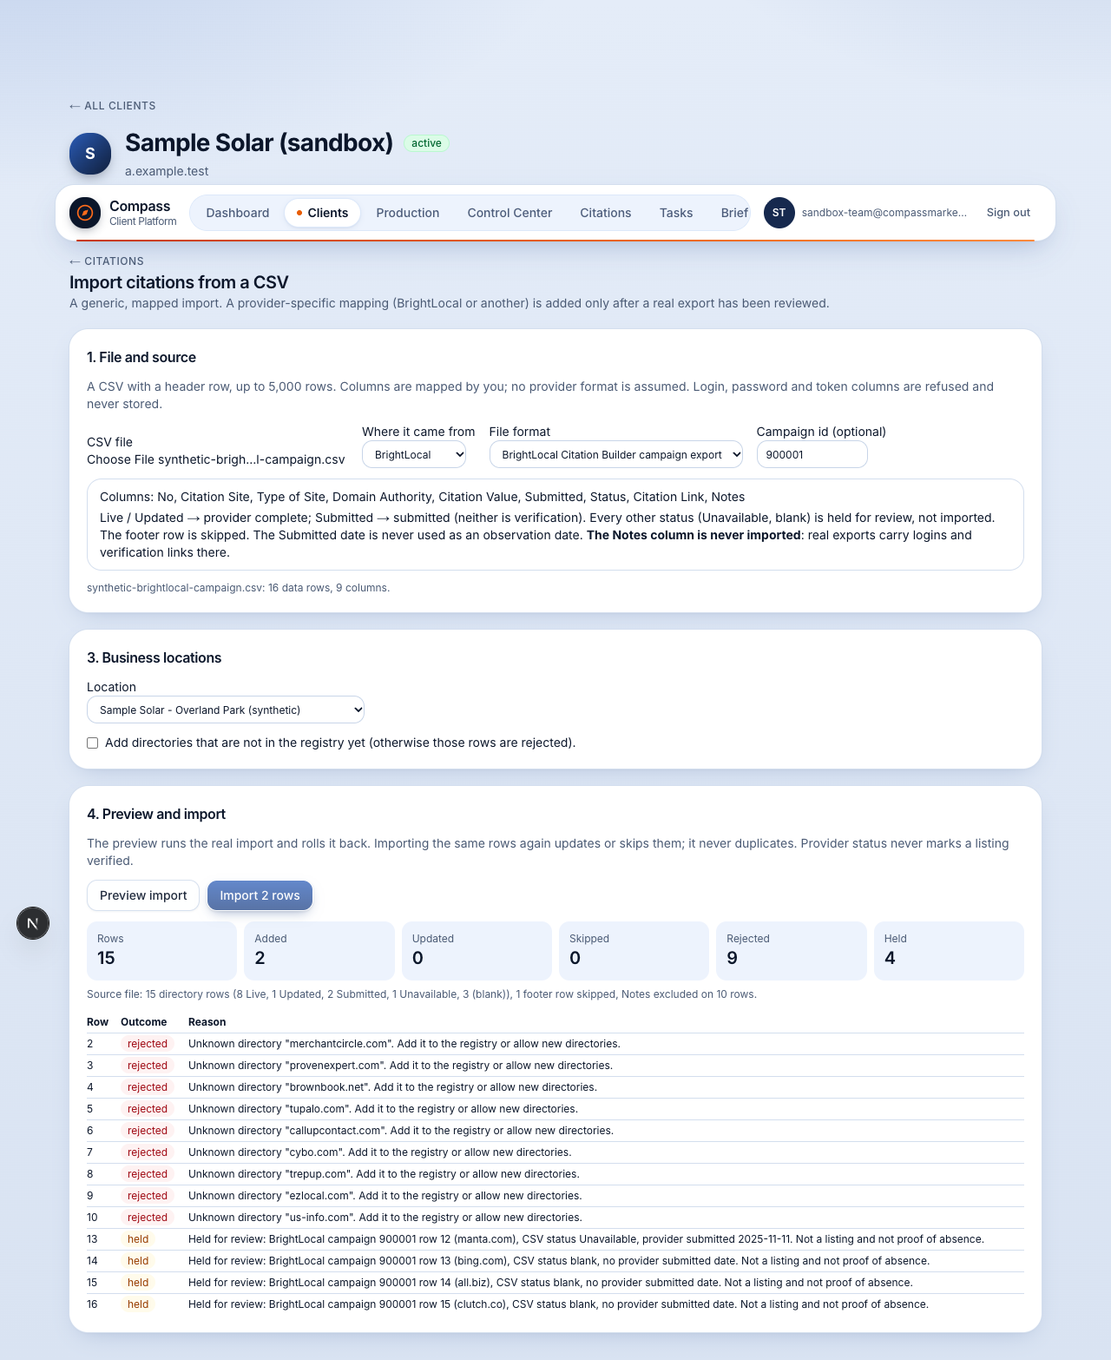
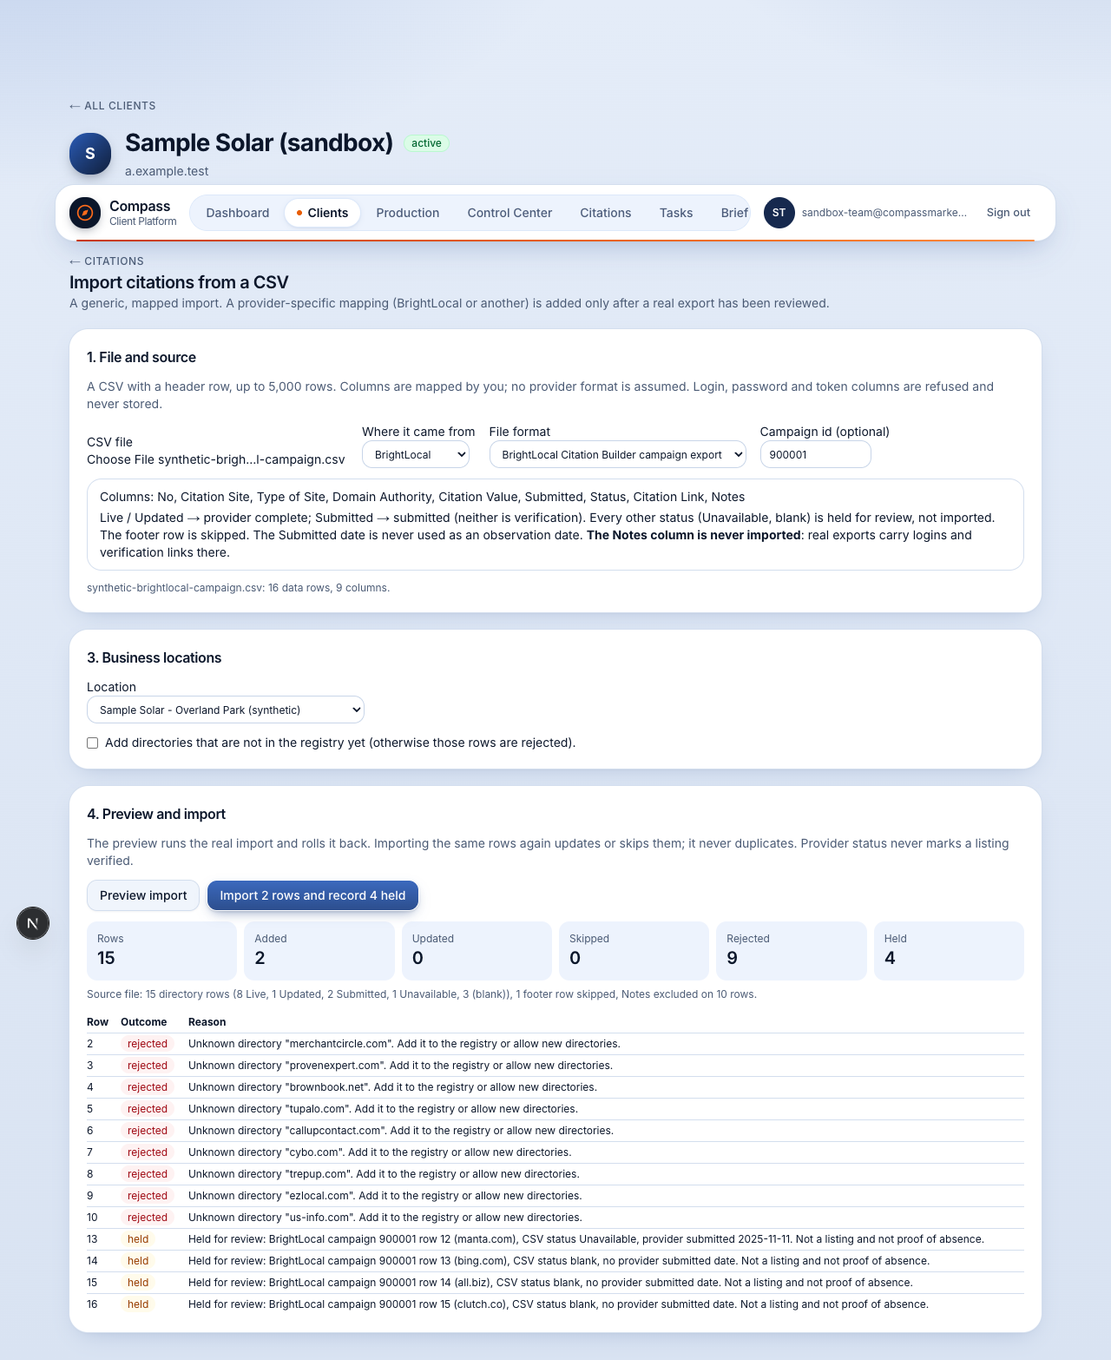
Citations: close metadata credential leaks, save held-only history imports
ChatGPT's review of 0db2eec (Executive OS c0e9965e, handoff 68314621).

P1 - the serialization boundary. A recognized login / private link could
still leave through import metadata:
- BrightLocal held rows: Status, Site and No now go through safeLabel()
  before any held reason or byRawStatus key is built (fixed descriptor, no
  echo, exact counts kept; a non-numeric row number shows as "?").
- The stored location mapping keeps only screened values that point at a
  real location of the client (storedLocationMapping); a flagged key is
  dropped and counted as withheld, even when other rows import.
- File names (storedFileName) and mapped headers are screened; the browser
  masks the file name and never offers a flagged header.

P2 - a valid preview with held rows can be saved: "Save import history (N
held, no listings)" / "Import N rows and record M held"; "Nothing to import"
stays disabled; the import id keeps retries idempotent.

Also: latest-check ties on date and entry time break by insertion order
(citation_checks.seq) instead of a random id - this made one SQL assertion
flaky; verify-task wording for a hidden-address location now says to record
a shown street as a discrepancy and never add it; hide_address = true for
Logic Overland Park recorded as decided (brand-board conflict kept for later
correction).

Tests: brightlocal unit tests for secrets in held Status / Site / No,
stored mapping and file name, mapped headers; SQL held-only commit and
[…]

Changed region(s): [[0.1875, 0.6437, 0.375, 0.6743], [0.6562, 0.3065, 0.7812, 0.3372]]

diff --git a/src/components/citations/citation-import.tsx b/src/components/citations/citation-import.tsx
@@ -71,7 +71,7 @@ export function CitationImport({ clientId, locations }: { clientId: string; loca
   function reset() { setImportId(crypto.randomUUID()); setFile(null); setPreview(null); setDone(null); setMapping({}); setValues({}); }
 
   if (done) return <div className="surface space-y-3 p-5" data-import-done>
-    <h3 className="font-semibold">{done.already_committed ? "This import was already saved" : "Import saved"}</h3>
+    <h3 className="font-semibold">{done.already_committed ? "This import was already saved" : (done.added ?? 0) + (done.updated ?? 0) === 0 ? "Import history saved" : "Import saved"}</h3>
     <Counts r={done} />
     <NewDirectories r={done} /><Source r={done} />
     <Rows r={done} />
@@ -94,8 +94,8 @@ export function CitationImport({ clientId, locations }: { clientId: string; loca
         <p className="mt-1">Live / Updated → provider complete; Submitted → submitted (neither is verification). Every other status (Unavailable, blank) is held for review, not imported. The footer row is skipped. The Submitted date is never used as an observation date. <strong>The Notes column is never imported</strong>: real exports carry logins and verification links there.</p>
       </div>}
       {fileError && <p role="alert" className="text-sm text-red-700">{fileError}</p>}
-      {file && <p className="text-xs text-muted-foreground">{file.name}: {file.rows.length - 1} data rows, {headers.length} columns.</p>}
-      {credentialColumns.length > 0 && <p className="callout text-sm" data-credential-notice>Ignored {credentialColumns.length} login-like column{credentialColumns.length > 1 ? "s" : ""} ({credentialColumns.join(", ")}). Their values are not imported or stored. Keep credentials in the approved secret store.</p>}
+      {file && <p className="text-xs text-muted-foreground">{shown(file.name)}: {file.rows.length - 1} data rows, {headers.length} columns.</p>}
+      {credentialColumns.length > 0 && <p className="callout text-sm" data-credential-notice>Ignored {credentialColumns.length} login-like column{credentialColumns.length > 1 ? "s" : ""} ({credentialColumns.map(shown).join(", ")}). Their values are not imported or stored. Keep credentials in the approved secret store.</p>}
     </section>
 
     {file && !brightLocal && <section className="surface space-y-3 p-5">
@@ -105,7 +105,7 @@ export function CitationImport({ clientId, locations }: { clientId: string; loca
         <label key={f} className="space-y-1 text-sm">{IMPORT_FIELDS[f].label}{IMPORT_FIELDS[f].hint && <span className="block text-xs text-muted-foreground">{IMPORT_FIELDS[f].hint}</span>}
           <select aria-label={`Column for ${IMPORT_FIELDS[f].label}`} className="field-sm block w-full" value={mapping[f] ?? ""} onChange={(e) => setField(f, e.target.value)}>
             <option value="">Not in this file</option>
-            {headers.map((h, i) => isCredentialHeader(h) ? null : <option key={i} value={i}>{h || `Column ${i + 1}`}</option>)}
+            {headers.map((h, i) => isCredentialHeader(h) || sensitiveContent(h) ? null : <option key={i} value={i}>{h || `Column ${i + 1}`}</option>)}
           </select></label>)}
       </div>
     </section>}
@@ -134,7 +134,7 @@ export function CitationImport({ clientId, locations }: { clientId: string; loca
       <p className="text-sm text-muted-foreground">The preview runs the real import and rolls it back. Importing the same rows again updates or skips them; it never duplicates. Provider status never marks a listing verified.</p>
       <div className="flex flex-wrap gap-2">
         <Button variant="outline" disabled={pending} onClick={() => run(false)}>{pending ? "Working…" : "Preview import"}</Button>
-        <Button disabled={pending || !preview || !!preview.error || (preview.added ?? 0) + (preview.updated ?? 0) === 0} onClick={() => run(true)}>Import {preview && !preview.error ? `${(preview.added ?? 0) + (preview.updated ?? 0)} rows` : ""}</Button>
+        <Button disabled={pending || !preview || !!preview.error || toSave(preview) === 0} onClick={() => run(true)}>{commitLabel(preview)}</Button>
       </div>
       {preview?.error && <p role="alert" className="text-sm text-red-700">{preview.error}</p>}
       {preview && !preview.error && <div data-import-preview><Counts r={preview} /><NewDirectories r={preview} /><Source r={preview} /><Rows r={preview} /></div>}
@@ -142,6 +142,17 @@ export function CitationImport({ clientId, locations }: { clientId: string; loca
   </div>;
 }
 
+// What a commit would write: listings added or updated, and held rows kept as history.
+// A file of only held attempts (historical exceptions) is still worth saving.
+const toSave = (r: ImportResult) => (r.added ?? 0) + (r.updated ?? 0) + (r.held ?? 0);
+function commitLabel(r: ImportResult | null) {
+  if (!r || r.error) return "Import";
+  const listings = (r.added ?? 0) + (r.updated ?? 0), held = r.held ?? 0;
+  if (listings && held) return `Import ${listings} rows and record ${held} held`;
+  if (listings) return `Import ${listings} rows`;
+  if (held) return `Save import history (${held} held, no listings)`;
+  return "Nothing to import";
+}
 function Counts({ r }: { r: ImportResult }) {
   return <dl className="grid grid-cols-2 gap-2 sm:grid-cols-6" data-import-counts>{([["Rows", r.rows_total], ["Added", r.added], ["Updated", r.updated], ["Skipped", r.skipped], ["Rejected", r.rejected], ["Held", r.held]] as const).map(([k, v]) =>
     <div key={k} className="rounded-lg bg-royal-50 p-3"><dt className="text-xs text-muted-foreground">{k}</dt><dd className="text-xl font-semibold" data-count={k.toLowerCase()}>{v ?? 0}</dd></div>)}</dl>;

diff --git a/src/app/citation-actions.ts b/src/app/citation-actions.ts
@@ -15,7 +15,7 @@ import { GENERIC_MAPPING, prepareBrightLocalCampaign } from "@/lib/citations-bri
 import { loadListings } from "@/lib/citations-data";
 import {
   CHECK_METHODS, CHECK_RESULTS, FULFILLMENT_STATUSES, IMPORT_MAX_BYTES, REQUEST_ACTIONS, REQUEST_STATUSES, RESULT_METHODS, TASK_KINDS, TASK_STATUSES,
-  citationText, isCredentialHeader, listingUrl, parseCsv, prepareImport,
+  citationText, isCredentialHeader, listingUrl, parseCsv, prepareImport, storedFileName, storedLocationMapping,
   type CheckMethod, type CheckResult, type ColumnMapping, type ImportField, type LocationMapping,
 } from "@/lib/citations";
 
@@ -247,7 +247,7 @@ export async function queueVerificationAction(clientId: string, locationId: stri
     let created = 0;
     for (const l of due) {
       const reason = `Verify ${l.directory_name} against approved identity v${loc.identity_version}: open the listing URL and record name, phone, website and address`
-        + `${loc.hide_address ? " (the street must not be shown: hidden-address business)" : ""}. Provider status: ${l.fulfillment_status.replace("_", " ")}; never independently checked`
+        + `${loc.hide_address ? ". Hidden-address business: if the listing shows a street address, record that as a discrepancy; never add the street" : ""}. Provider status: ${l.fulfillment_status.replace("_", " ")}; never independently checked`
         + `${l.verification_status === "needs_reverification" ? " against the current identity" : ""}.`;
       const { error: e } = await db.from("citation_tasks").insert({ client_id: clientId, location_id: locationId, listing_id: l.id, kind: "verify", reason });
       if (!e) created++;
@@ -369,15 +369,15 @@ export async function runCitationImportAction(clientId: string, req: ImportReque
       prepared = prepareImport(bl.rows, GENERIC_MAPPING, req.locations, ids, undefined, (i) => bl.sourceRows[i]);
       held = bl.held.map((h) => ({ row_number: h.row_number, reason: h.reason }));
       source = { directoryRows: bl.counts.directoryRows, footerRows: bl.counts.footerRows, byRawStatus: bl.counts.byRawStatus, rawNotesExcluded: bl.counts.rawNotesExcluded };
-      mapping = { format: "brightlocal_campaign", campaign: req.campaign ?? null, location: req.locations, raw_notes: "excluded", source };
+      mapping = { format: "brightlocal_campaign", campaign: req.campaign || null, location: storedLocationMapping(req.locations, ids), raw_notes: "excluded", source };
     } else {
       prepared = prepareImport(table, req.mapping, req.locations, ids);
       // The mapping is kept by header name; credential-like headers can never be in it (prepareImport refuses them).
       const columns = Object.fromEntries(Object.entries(req.mapping).filter(([, i]) => i !== undefined).map(([f, i]) => [f, prepared.headers[i as number]]));
-      mapping = { format: "generic", columns: columns as Partial<Record<ImportField, string>>, location: req.locations, credential_columns_ignored: prepared.headers.filter(isCredentialHeader).length };
+      mapping = { format: "generic", columns: columns as Partial<Record<ImportField, string>>, location: storedLocationMapping(req.locations, ids), credential_columns_ignored: prepared.headers.filter(isCredentialHeader).length };
     }
     const { data, error: rpcError } = await db.rpc("citation_import", {
-      p_import: { id: req.importId, client_id: clientId, provider: req.provider, file_name: req.fileName.slice(0, 300) || "import.csv",
+      p_import: { id: req.importId, client_id: clientId, provider: req.provider, file_name: storedFileName(req.fileName),
         file_sha256: createHash("sha256").update(req.csv).digest("hex"), create_directories: req.createDirectories, mapping: mapping as Json },
       p_rows: prepared.accepted, p_rejected: prepared.rejected, p_commit: commit, p_held: held,
     });

diff --git a/src/lib/citations.ts b/src/lib/citations.ts
@@ -324,6 +324,27 @@ export type ImportRow = {
 export type RejectedRow = { row_number: number; reason: string };
 export type LocationMapping = { mode: "single"; locationId: string } | { mode: "column"; values: Record<string, string> };
 
+/**
+ * The location mapping as it may be stored on the import record: only
+ * screened values that point at one of this client's locations. A value that
+ * looks like a login or private link is dropped (and counted), never kept as
+ * a key, even when other rows import.
+ */
+export function storedLocationMapping(m: LocationMapping, ids: Set<string>) {
+  if (m.mode === "single") return { mode: "single" as const, locationId: ids.has(m.locationId) ? m.locationId : null };
+  const entries = Object.entries(m.values ?? {});
+  return {
+    mode: "column" as const,
+    values: Object.fromEntries(entries.filter(([k, v]) => k.length <= 200 && !sensitiveContent(k) && ids.has(v))),
+    withheld: entries.filter(([k]) => sensitiveContent(k)).length,
+  };
+}
+/** A file name as it may be stored or shown. */
+export function storedFileName(name: string) {
+  const n = name.slice(0, 300).trim();
+  return !n ? "import.csv" : sensitiveContent(n) ? "import.csv (name withheld)" : n;
+}
+
 /** FNV-1a over the mapped values: identifies a row's content without storing it. */
 export function rowHash(values: string[]) {
   let h = 0x811c9dc5;
@@ -344,6 +365,7 @@ export function prepareImport(rows: string[][], mapping: ColumnMapping, location
   for (const [field, col] of Object.entries(mapping)) {
     if (col === undefined) continue;
     if (!Number.isInteger(col) || col < 0 || col >= headers.length) throw new Error(`The column chosen for ${field} is not in the file.`);
+    if (sensitiveContent(headers[col])) throw new Error(`A mapped column's header ${SENSITIVE_MESSAGE}. Rename or remove that column.`);
     if (isCredentialHeader(headers[col])) throw new Error(`"${headers[col]}" looks like a login column and cannot be imported.`);
   }
   if (mapping.directory === undefined && mapping.listing_url === undefined) throw new Error("Map a directory column or a listing URL column.");
@@ -483,7 +505,7 @@ export function comparisonSource(l: CitationListingOverview): { from: "check" | 
   return { from: "none", fields: { observed_name: "", observed_address: "", observed_phone: "", observed_website: "" } };
 }
 export type CitationCheck = ObservedFields & {
-  id: string; listing_id: string; identity_version: number; checked_on: string; method: CheckMethod; result: CheckResult;
+  id: string; seq: number; listing_id: string; identity_version: number; checked_on: string; method: CheckMethod; result: CheckResult;
   evidence: string; evidence_url: string | null; recorded_at: string; recorded_by: string | null;
 };
 export type CitationTask = {

diff --git a/src/lib/citations-brightlocal.ts b/src/lib/citations-brightlocal.ts
@@ -47,6 +47,16 @@ export function brightLocalDate(v: string): string | null {
   return null;
 }
 
+/**
+ * The only way a raw export value reaches a held reason, a count key or the
+ * import's source metadata: a recognized login / private link is replaced by
+ * a fixed descriptor (never echoed), and over-long text is cut.
+ */
+export const WITHHELD = "(withheld: looked like a login or private link)";
+export function safeLabel(v: string, max = 60) {
+  return sensitiveContent(v) ? WITHHELD : v.length > max ? `${v.slice(0, max)}…` : v;
+}
+
 export function isBrightLocalCampaign(header: string[]) {
   return header.length === BRIGHTLOCAL_CAMPAIGN_COLUMNS.length && header.every((h, i) => h.trim().toLowerCase() === BRIGHTLOCAL_CAMPAIGN_COLUMNS[i].toLowerCase());
 }
@@ -72,15 +82,18 @@ export function prepareBrightLocalCampaign(table: string[][], opts: { locationLa
     if ((cells[COL.Notes] ?? "").trim()) rawNotesExcluded++;
     const site = (cells[COL["Citation Site"]] ?? "").trim().toLowerCase();
     const raw = (cells[COL.Status] ?? "").trim();
+    // Screened before any count key or reason is built (row numbers are digits or nothing).
+    const siteLabel = safeLabel(site), rawLabel = safeLabel(raw, 40);
     const submittedText = (cells[COL.Submitted] ?? "").trim();
     const submittedOn = brightLocalDate(submittedText);
     const url = (cells[COL["Citation Link"]] ?? "").trim();
-    byRawStatus[raw || "(blank)"] = (byRawStatus[raw || "(blank)"] ?? 0) + 1;
+    byRawStatus[rawLabel || "(blank)"] = (byRawStatus[rawLabel || "(blank)"] ?? 0) + 1;
     const submittedNote = submittedOn ? `provider submitted ${submittedOn}` : submittedText ? "provider submitted date unparsed" : "no provider submitted date";
     const status = /^(live|updated)$/i.test(raw) ? "provider_complete" : /^submitted$/i.test(raw) ? "submitted" : null;
     if (!status || !site || !/^\d+$/.test(no)) {
-      held.push({ row_number: sourceRow, site: site || "(no site)", raw_status: raw || "(blank)", submitted_on: submittedOn,
-        reason: `Held for review: BrightLocal${campaign ? ` campaign ${campaign}` : ""} row ${no || "?"} (${site || "no site"}), CSV status ${raw || "blank"}, ${submittedNote}. Not a listing and not proof of absence.` });
+      const rowLabel = /^\d+$/.test(no) ? no : "?";
+      held.push({ row_number: sourceRow, site: siteLabel || "(no site)", raw_status: rawLabel || "(blank)", submitted_on: submittedOn,
+        reason: `Held for review: BrightLocal${campaign ? ` campaign ${campaign}` : ""} row ${rowLabel} (${siteLabel || "no site"}), CSV status ${rawLabel || "blank"}, ${submittedNote}. Not a listing and not proof of absence.` });
       return;
     }
     const safe = opts.safeNotes?.[no]?.trim() ?? "";

diff --git a/src/app/(app)/clients/[clientId]/citations/[locationId]/page.tsx b/src/app/(app)/clients/[clientId]/citations/[locationId]/page.tsx
@@ -48,7 +48,7 @@ export default async function CitationLocationPage({ params, searchParams }: { p
   const ids = shown.map((l) => l.id);
   const checksQ = ids.length
     ? await fetchAll<CitationCheck>((from, to) => db.from("citation_checks").select("*", { count: "exact" }).in("listing_id", ids)
-      .order("checked_on", { ascending: false }).order("recorded_at", { ascending: false }).order("id", { ascending: false }).range(from, to))
+      .order("checked_on", { ascending: false }).order("recorded_at", { ascending: false }).order("seq", { ascending: false }).range(from, to))
     : { rows: [] as CitationCheck[], error: null };
   const failure = error ?? tasksQ.error ?? requestsQ.error ?? dirsQ.error ?? checksQ.error;
   const tasks = tasksQ.rows;

diff --git a/src/lib/database.types.ts b/src/lib/database.types.ts
@@ -114,7 +114,7 @@ export type Database = {
       }
       citation_checks: {
         Row: CitationCheck
-        Insert: Omit<CitationCheck, "identity_version" | "recorded_at" | "recorded_by" | "evidence_url"> & { evidence_url?: string | null }
+        Insert: Omit<CitationCheck, "seq" | "identity_version" | "recorded_at" | "recorded_by" | "evidence_url"> & { evidence_url?: string | null }
         Update: never
         Relationships: []
       }

diff --git a/docs/citations.md b/docs/citations.md
@@ -108,7 +108,8 @@ Code: `src/lib/citations.ts` (pure rules, CSV, mapping, comparison, export),
   unverified.
 - **Confirmed absent** needs `owner_dashboard` or `publisher_confirmation`.
 - The latest check by date decides verification; a backdated entry never
-  overrides a newer one.
+  overrides a newer one. Ties on date and entry time are broken by the check's
+  insertion order (`seq`), never by a random id.
 - **Identity changes.**
   - A change to name, address, phone, website or the hidden-address setting
     creates a new version.
@@ -226,6 +227,20 @@ contains a login or a private account / verification link"). The value is
 never echoed into the preview, the row outcome, the import record or an error.
 A flagged form field is refused the same way.
 
+**The serialization boundary.** No recognized value leaves through import
+metadata either:
+- **Held rows (BrightLocal):** Status, Site and No go through `safeLabel()`
+  before any reason or count key is built. A flagged value becomes "(withheld:
+  looked like a login or private link)". A non-numeric row number is shown as
+  "?". Counts stay exact.
+- **Location mapping:** the stored mapping (`storedLocationMapping`) keeps only
+  screened values that point at one of the client's locations. A flagged key is
+  dropped and counted (`withheld`), even when other rows import.
+- **File and headers:** the file name is withheld when flagged
+  (`storedFileName`). A mapped header that looks like a secret is refused; such
+  headers are not offered in the column choices, and the browser masks the file
+  name and location values.
+
 Ordinary wording passes ("owner verification required", "client login required
 for edits", "verification email not received"). This catches the obvious
 cases; it is **not** universal secret detection. Credentials belong in the
@@ -245,11 +260,16 @@ single-cell "Aggregator/Network" footer that is not a listing.
 | --- | --- |
 | Status `Live` / `Updated` | listing, provider status **provider complete** (never verification) |
 | Status `Submitted` | listing, provider status **submitted** |
-| Any other status (`Unavailable`, blank, anything new) | **held** on the import with its CSV status and submitted date: not a listing, not proof of absence, no spend |
+| Any other status (`Unavailable`, blank, anything new) | **held** on the import with its (screened) CSV status and submitted date: not a listing, not proof of absence, no spend |
 | `Submitted` date | kept in the listing's note as "provider submitted YYYY-MM-DD (not an observation date)"; never `source_observed_on` |
 | `Notes` | **never read.** Only the count of non-empty Notes is reported. A separately reviewed safe summary per row can be added in code (`safeNotes`), and it is screened |
 | footer row | skipped and counted |
 
+- **Held-only files.** A file of only historical attempts (or a repeat file
+  whose active rows all skip) can be saved. The button says "Save import
+  history (N held, no listings)" or "Import N rows and record M held". An
+  import with nothing to save stays disabled ("Nothing to import"). The import
+  id keeps a retried save idempotent.
 - One campaign export is one business location, chosen by hand.
 - The provider label is BrightLocal.
 - BrightLocal's UI shows some held attempts as "Replaced". The CSV doesn't say
@@ -313,18 +333,25 @@ That is 11 active rows and 4 historical exceptions. No spend or credits were
 recorded for any of them. The raw export (SHA-256 `5c81a4d0…f6`) is held by
 Tom and is not in the repository.
 
-**Blockers before a production pilot:**
-- **Approved identity: conflicting instructions about the address.**
-  - Logic Solar's brand board (approved Oct 19 2026) says the Overland Park
-    Google Business Profile shows a **public** street address: 7300 W 110th St,
-    Plaza 1, 7th Floor, Overland Park, KS 66210.
-  - Oct 20 notes record Tom calling Logic a service-area business with **no
-    public address**.
-  - Tom decides `hide_address`. The rest of the proposed identity: Logic Solar,
-    phone 816-300-5781 (from `clients`, and matches the us-info.com listing id),
-    website https://logic-solar.com, linked to the existing Overland Park
-    tracking location (BrightLocal 3895356). It is not auto-approved from
-    `clients.address`.
+**Address decision (resolved Oct 20 2026):** `hide_address = true` for Logic
+Overland Park. Tom explicitly said Logic is a service-area business with no
+public address and chose Overland Park for this pilot. That takes precedence
+over the older brand-board text (approved Oct 19), which describes a public
+Google Business Profile street address.
+- The brand-board conflict is **recorded for later correction**, not silently
+  rewritten.
+- The decision does not verify current GBP visibility, and it does not approve
+  the proposed identity (Logic Solar, phone 816-300-5781, website
+  https://logic-solar.com, linked to the Overland Park tracking location,
+  BrightLocal 3895356). That identity is entered deliberately, never
+  auto-approved from `clients.address`.
+- Wichita stays separate.
+- Verification tasks for a hidden-address location say: if the listing shows a
+  street address, record a discrepancy, and never add the street.
+- The nine missing registry directories are created through the reviewed
+  preview. `hidden_address_support` stays unknown until it is checked.
+
+**Before a production pilot:**
 - Who may approve spend: approval is admin-only in code; actual role
   assignments need checking.
 - The production migration (`20261020230000`) and `CITATIONS_ENABLED`:
@@ -433,7 +460,9 @@ counts and filters always cover the whole location.
 - `tests/citations-brightlocal.test.mjs`: the campaign contract, held rows,
   status mapping, Notes exclusion, content screening (positives and innocuous
   negatives) and form-field screening, all on synthetic data.
-- `npm run test:citations-pilot`: the pilot rehearsal above.
+- `npm run test:citations-pilot`: the pilot rehearsal above. It also covers a
+  held-only history file, and secrets in a held row's Status / Site / No and in
+  a location-map key, checked in the preview and in what was stored.
 - `npm run test:citations-ui` drives the browser flows with PostgREST capped at
   1,000 rows. It includes the identity-change sequence, current evidence vs.
   the import, and 1,200 extra listings (one with 3,500 checks). Screenshots are
